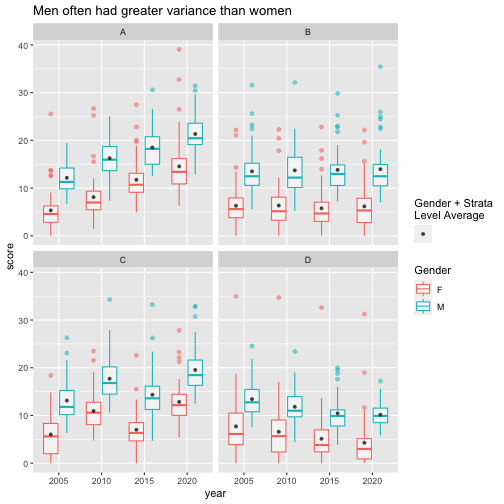
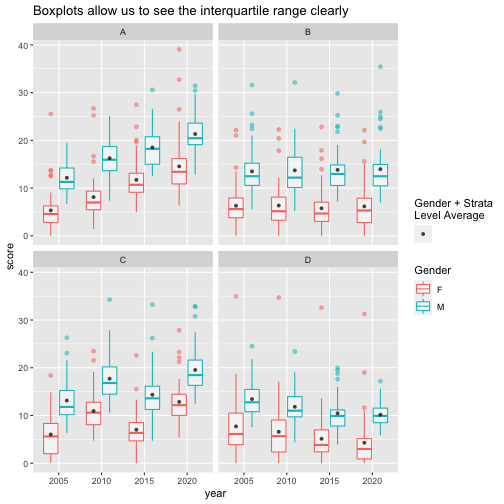
update formatting

Changed region(s): [[0.0595, 0.0, 0.6845, 0.0298]]

diff --git a/longitudinal_eda.html b/longitudinal_eda.html
@@ -602,7 +602,7 @@ ggplot(data = df,  aes(x = year, y = score, color = gender)) +
                fun = mean, geom='point', color = 'grey10', alpha=0.8) +
   facet_wrap(~strata) + 
   labs(color = "Gender", shape = "Gender + Strata\nLevel Average") + 
-  ggtitle("Men often had greater variance than women")
+  ggtitle("Boxplots allow us to see the interquartile range clearly")
 ```
 ]
 
@@ -645,7 +645,9 @@ to widen the dataframe (similar to how it was originally formatted).
 
 ```r
 df_wide &lt;- df %&gt;% 
-  tidyr::pivot_wider(id_cols = -score, names_from = year, values_from = score)
+  tidyr::pivot_wider(id_cols = -score,
+                     names_from = year,
+                     values_from = score)
 knitr::kable(head(df_wide, 3))
 ```
 

diff --git a/README.md b/README.md
@@ -3,3 +3,5 @@
 Find the slides here: <https://ctesta01.github.io/longitudinal_eda_talk/index.html>
 
 The example dataset used in the talk is available here: <https://github.com/ctesta01/longitudinal_eda_talk/blob/main/example_data/example_dataset_1.csv>
+
+[![screenshot of first slide](screenshot.png)](https://ctesta01.github.io/longitudinal_eda_talk/index.html)
